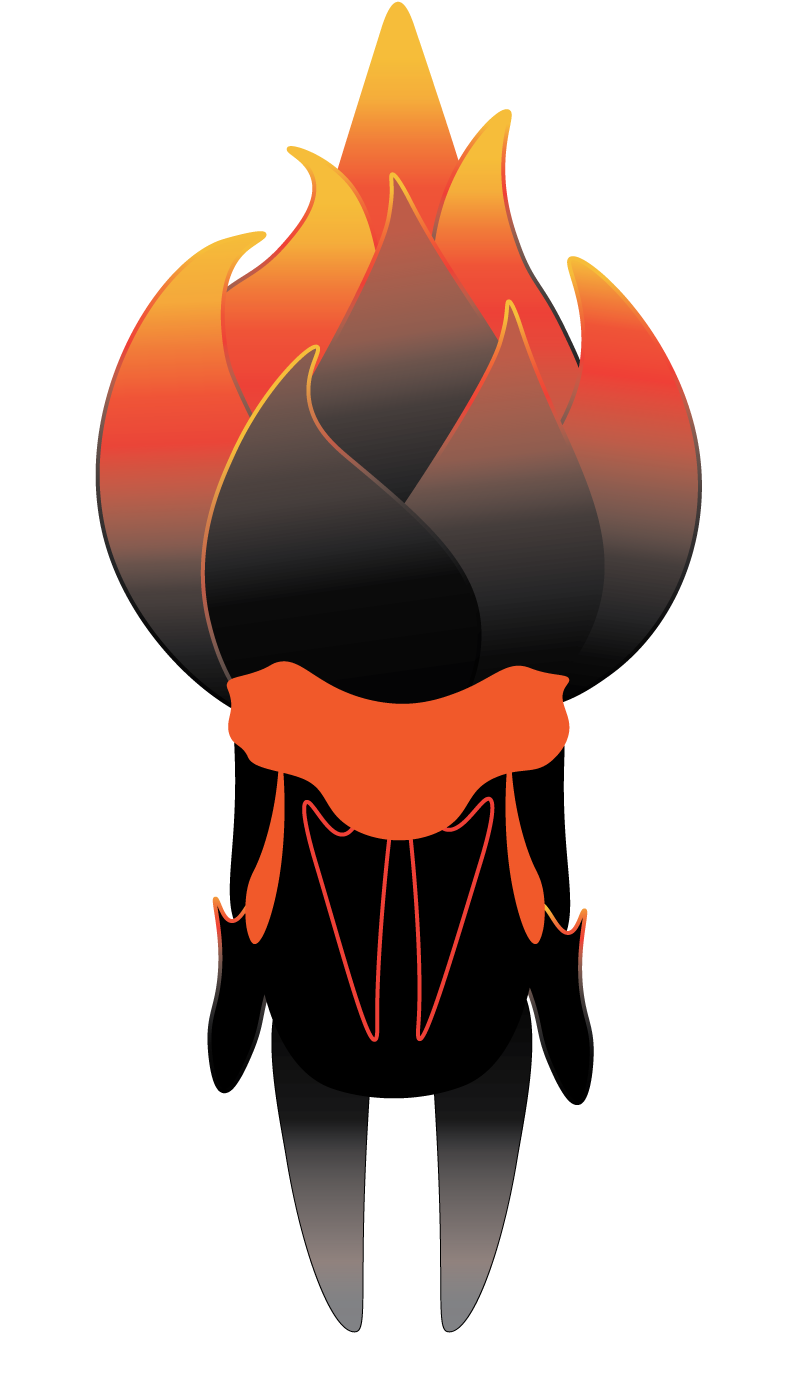
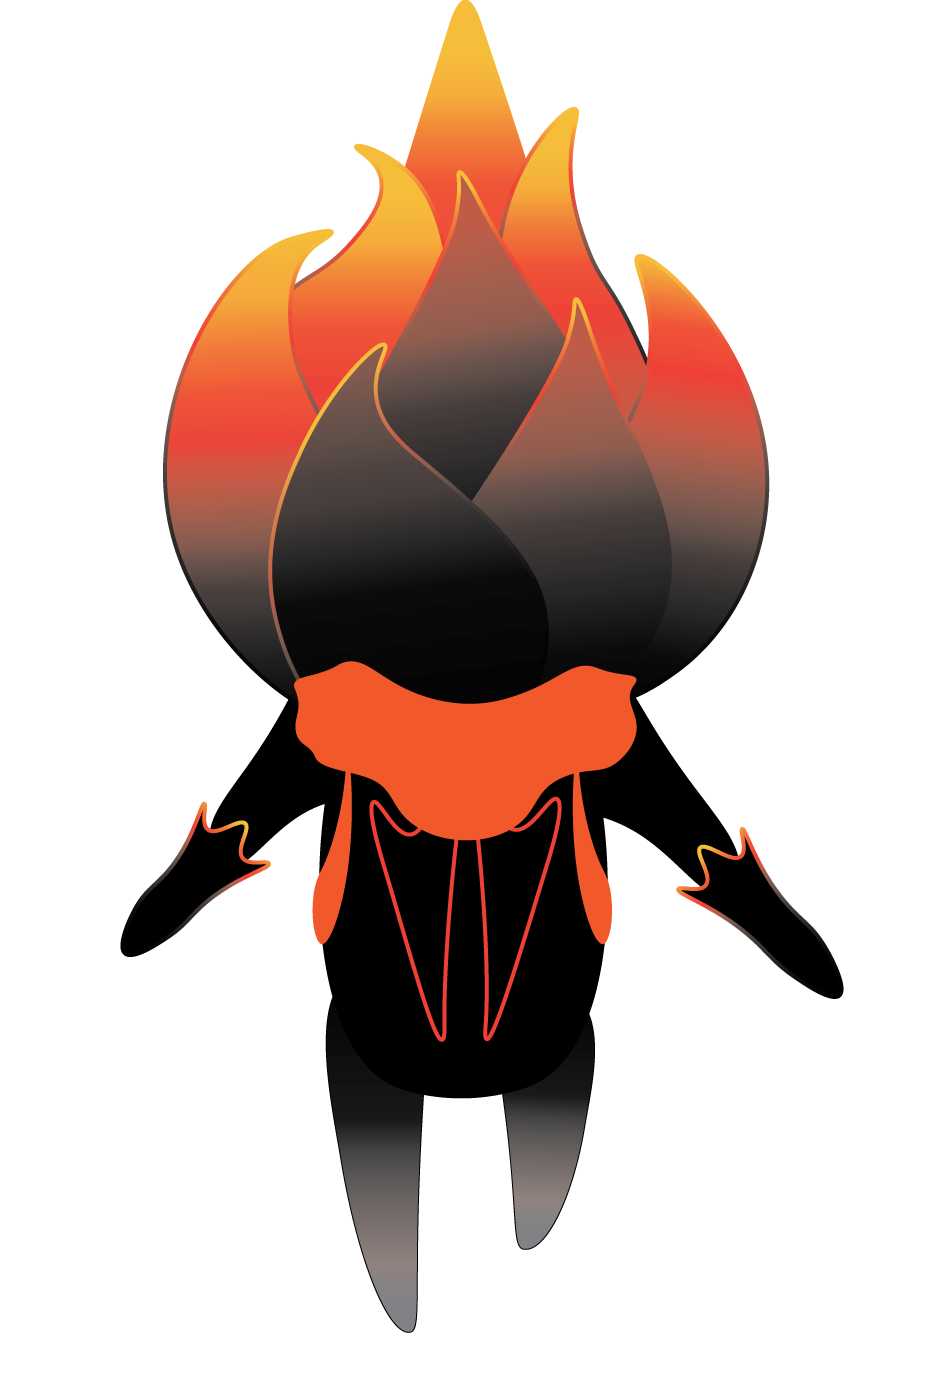
melee animations

diff --git a/character_objects.js b/character_objects.js
@@ -16,32 +16,29 @@ function main_character(x, y ) {
 	this.sprite.width = 60;
 	this.sprite.height = 80;
 	
-	this.up_walk = new Array;
-	this.up_walk.push(assets["mc_up_1"]);
-	this.up_walk.push(assets["mc_up_2"]);
-	this.up_walk.push(assets["mc_up_3"]);
+	this.up_walk = new Array; this.up_walk.push(assets["mc_up_1"]); this.up_walk.push(assets["mc_up_2"]); this.up_walk.push(assets["mc_up_3"]);
 	
-	this.down_walk = new Array;
-	this.down_walk.push(assets["mc_down_1"]);
-	this.down_walk.push(assets["mc_down_2"]);
-	this.down_walk.push(assets["mc_down_3"]);
+	this.down_walk = new Array; this.down_walk.push(assets["mc_down_1"]); this.down_walk.push(assets["mc_down_2"]); this.down_walk.push(assets["mc_down_3"]);
 	
-	this.right_walk = new Array;
-	this.right_walk.push(assets["mc_right_1"]);
-	this.right_walk.push(assets["mc_right_2"]);
-	this.right_walk.push(assets["mc_right_3"]);
+	this.right_walk = new Array; this.right_walk.push(assets["mc_right_1"]); this.right_walk.push(assets["mc_right_2"]); this.right_walk.push(assets["mc_right_3"]);
 	
-	this.left_walk = new Array;
-	this.left_walk.push(assets["mc_left_1"]);
-	this.left_walk.push(assets["mc_left_2"]);
-	this.left_walk.push(assets["mc_left_3"]);
+	this.left_walk = new Array; this.left_walk.push(assets["mc_left_1"]); this.left_walk.push(assets["mc_left_2"]); this.left_walk.push(assets["mc_left_3"]);
 	
+	this.up_melee = new Array; this.up_melee.push(assets["mc_melee_up_1"]); this.up_melee.push(assets["mc_melee_up_2"]); this.up_melee.push(assets["mc_melee_up_3"]); this.up_melee.push(assets["mc_melee_up_4"]);
+	
+	this.down_melee = new Array; this.down_melee.push(assets["mc_melee_down_1"]); this.down_melee.push(assets["mc_melee_down_2"]); this.down_melee.push(assets["mc_melee_down_3"]); this.down_melee.push(assets["mc_melee_down_4"]);
+
+	this.right_melee = new Array; this.right_melee.push(assets["mc_melee_right_1"]); this.right_melee.push(assets["mc_melee_right_2"]); this.right_melee.push(assets["mc_melee_right_3"]); this.right_melee.push(assets["mc_melee_right_4"]);
+
+	this.left_melee = new Array; this.left_melee.push(assets["mc_melee_left_1"]); this.left_melee.push(assets["mc_melee_left_2"]); this.left_melee.push(assets["mc_melee_left_3"]); this.left_melee.push(assets["mc_melee_left_4"]);
+
 	this.image_index = 0;
 	this.image_speed_max = 7;  
 	this.image_speed_counter = 0;
 	
 	this.active_animation = this.up_walk;
-	this.animated = false;
+	this.animated = false;               //whether the draw animated sprite script should be called
+	this.animating = false;              //whether a high priority animation is active (not walking)
 	
 	this.fp = 30;
 	this.nextFp = 10;
@@ -120,20 +117,20 @@ function main_character(x, y ) {
 	this.update = function(){
 		
 		//animation handlers
-		if(this.look_direc == 'west' && this.active_animation != this.left_walk){
+		if(this.look_direc == 'west' && this.animating == false){
 			this.active_animation = this.left_walk;
 		}
-		if(this.look_direc == 'south' && this.active_animation != this.down_walk){
+		if(this.look_direc == 'south' && this.animating == false){
 			this.active_animation = this.down_walk;
 		}
-		if(this.look_direc == 'north' && this.active_animation != this.up_walk){
+		if(this.look_direc == 'north' && this.animating == false){
 			this.active_animation = this.up_walk;
 		}
-		if(this.look_direc == 'east' && this.active_animation != this.right_walk){
+		if(this.look_direc == 'east' && this.animating == false){
 			this.active_animation = this.right_walk;
 		}
 		
-		if(this.canvasXSpeed == 0 && this.canvasYSpeed == 0){
+		if((this.canvasXSpeed == 0 && this.canvasYSpeed == 0) && this.animating == false){
 			this.animated = false;
 			this.image_index = 0;
 		}
@@ -347,6 +344,7 @@ function main_character(x, y ) {
     	//drawing the player sprite
 		if(this.animated == true){
 			draw_animated_sprite(this.active_animation, this, this.canvasX, this.canvasY, this.sprite.width, this.sprite.height);
+			console.log("drawing "+ this.active_animation);
 		}
 		else{
 			context.drawImage(this.active_animation[this.image_index], this.canvasX, this.canvasY, this.sprite.width, this.sprite.height);
@@ -432,13 +430,21 @@ function main_character(x, y ) {
 
 			var opt1 = this.look_direc;
 			var direction = 180;
+			this.animated = true;
+			this.animating = true;
 		    if (opt1 == 'west') {
 			    direction = 90;
+				this.active_animation = this.left_melee;
 		    } else if (opt1 == 'south'){
 			    direction = 0;
+				this.active_animation = this.down_melee;
 		    } else if (opt1 == 'east'){
 			    direction = 270;
-		    } 
+				this.active_animation = this.right_melee;
+		    } else if (opt1 == 'north'){
+				direction = 180;
+				this.active_animation = this.up_melee;
+			}
 			this.attack_hitbox = {
 				active:true,
 				shape:'arc',
@@ -525,6 +531,13 @@ function main_character(x, y ) {
 	this.die = function(){
 		//reset the game
 		reset_game();
+	}
+	
+	this.end_animation = function(target){
+		//called when the current animation ends
+		if(target == "melee"){
+			this.animating = false;
+		}
 	}
 	
     this.special = function(param){

diff --git a/main.js b/main.js
@@ -18,34 +18,41 @@ var renderer = new renderer(canvas, context);
 //preload of assets
 var assets = new Array();
 
+var mc_up_1 = new Image();  mc_up_1.src = 'images/walk_top/phoenix_away1.png';
+var mc_up_2 = new Image();  mc_up_2.src = 'images/walk_top/phoenix_away2.png';
+var mc_up_3 = new Image();  mc_up_3.src = 'images/walk_top/phoenix_away3.png';
 
-var mc_up_1 = new Image();
-mc_up_1.src = 'images/walk_top/phoenix_away1.png';
-var mc_up_2 = new Image();
-mc_up_2.src = 'images/walk_top/phoenix_away2.png';
-var mc_up_3 = new Image();
-mc_up_3.src = 'images/walk_top/phoenix_away3.png';
+var mc_down_1 = new Image();  mc_down_1.src = 'images/walk_down/phoenix_walkforward1.png';
+var mc_down_2 = new Image();  mc_down_2.src = 'images/walk_down/phoenix_walkforward2.png';
+var mc_down_3 = new Image();  mc_down_3.src = 'images/walk_down/phoenix_walkforward3.png';
 
-var mc_down_1 = new Image();
-mc_down_1.src = 'images/walk_down/phoenix_walkforward1.png';
-var mc_down_2 = new Image();
-mc_down_2.src = 'images/walk_down/phoenix_walkforward2.png';
-var mc_down_3 = new Image();
-mc_down_3.src = 'images/walk_down/phoenix_walkforward3.png';
+var mc_right_1 = new Image();  mc_right_1.src = 'images/walk_right/phoenix_walkright1.png';
+var mc_right_2 = new Image();  mc_right_2.src = 'images/walk_right/phoenix_walkright2.png';
+var mc_right_3 = new Image();  mc_right_3.src = 'images/walk_right/phoenix_walkright3.png';
 
-var mc_right_1 = new Image();
-mc_right_1.src = 'images/walk_right/phoenix_walkright1.png';
-var mc_right_2 = new Image();
-mc_right_2.src = 'images/walk_right/phoenix_walkright2.png';
-var mc_right_3 = new Image();
-mc_right_3.src = 'images/walk_right/phoenix_walkright3.png';
+var mc_left_1 = new Image();  mc_left_1.src = 'images/walk_left/phoenix_walkleft1.png';
+var mc_left_2 = new Image();  mc_left_2.src = 'images/walk_left/phoenix_walkleft2.png';
+var mc_left_3 = new Image();  mc_left_3.src = 'images/walk_left/phoenix_walkleft3.png';
 
-var mc_left_1 = new Image();
-mc_left_1.src = 'images/walk_left/phoenix_walkleft1.png';
-var mc_left_2 = new Image();
-mc_left_2.src = 'images/walk_left/phoenix_walkleft2.png';
-var mc_left_3 = new Image();
-mc_left_3.src = 'images/walk_left/phoenix_walkleft3.png';
+var mc_melee_left_1 = new Image();  mc_melee_left_1.src = 'images/melee_left/phoenix_leftmelee1.png';
+var mc_melee_left_2 = new Image();  mc_melee_left_2.src = 'images/melee_left/phoenix_leftmelee2.png';
+var mc_melee_left_3 = new Image();  mc_melee_left_3.src = 'images/melee_left/phoenix_leftmelee3.png';
+var mc_melee_left_4 = new Image();  mc_melee_left_4.src = 'images/melee_left/phoenix_leftmelee4.png';
+
+var mc_melee_right_1 = new Image();  mc_melee_right_1.src = 'images/melee_right/phoenix_rightmelee1.png';
+var mc_melee_right_2 = new Image();  mc_melee_right_2.src = 'images/melee_right/phoenix_rightmelee2.png';
+var mc_melee_right_3 = new Image();  mc_melee_right_3.src = 'images/melee_right/phoenix_rightmelee3.png';
+var mc_melee_right_4 = new Image();  mc_melee_right_4.src = 'images/melee_right/phoenix_rightmelee4.png';
+
+var mc_melee_up_1 = new Image();  mc_melee_up_1.src = 'images/melee_top/phoenix_backmelee1.png';
+var mc_melee_up_2 = new Image();  mc_melee_up_2.src = 'images/melee_top/phoenix_backmelee2.png';
+var mc_melee_up_3 = new Image();  mc_melee_up_3.src = 'images/melee_top/phoenix_backmelee3.png';
+var mc_melee_up_4 = new Image();  mc_melee_up_4.src = 'images/melee_top/phoenix_backmelee4.png';
+
+var mc_melee_down_1 = new Image();  mc_melee_down_1.src = 'images/melee_down/phoenix_melee1.png';
+var mc_melee_down_2 = new Image();  mc_melee_down_2.src = 'images/melee_down/phoenix_melee2.png';
+var mc_melee_down_3 = new Image();  mc_melee_down_3.src = 'images/melee_down/phoenix_melee3.png';
+var mc_melee_down_4 = new Image();  mc_melee_down_4.src = 'images/melee_down/phoenix_melee4.png';
 
 var sScorpion = new Image();
 sScorpion.src = 'images/enemies/seascorpion.png';
@@ -84,6 +91,26 @@ assets["mc_right_3"] = mc_right_3;
 assets["mc_left_1"] = mc_left_1;
 assets["mc_left_2"] = mc_left_2;
 assets["mc_left_3"] = mc_left_3;
+
+assets["mc_melee_up_1"] = mc_melee_up_1;
+assets["mc_melee_up_2"] = mc_melee_up_2;
+assets["mc_melee_up_3"] = mc_melee_up_3;
+assets["mc_melee_up_4"] = mc_melee_up_4;
+
+assets["mc_melee_down_1"] = mc_melee_down_1;
+assets["mc_melee_down_2"] = mc_melee_down_2;
+assets["mc_melee_down_3"] = mc_melee_down_3;
+assets["mc_melee_down_4"] = mc_melee_down_4;
+
+assets["mc_melee_right_1"] = mc_melee_right_1;
+assets["mc_melee_right_2"] = mc_melee_right_2;
+assets["mc_melee_right_3"] = mc_melee_right_3;
+assets["mc_melee_right_4"] = mc_melee_right_4;
+
+assets["mc_melee_left_1"] = mc_melee_left_1;
+assets["mc_melee_left_2"] = mc_melee_left_2;
+assets["mc_melee_left_3"] = mc_melee_left_3;
+assets["mc_melee_left_4"] = mc_melee_left_4;
 
 assets["sScorpion"] = sScorpion;
 

diff --git a/animations.js b/animations.js
@@ -19,6 +19,12 @@ function draw_animated_sprite(spr_arr, owner, cX, cY, spr_w, spr_h){
 			owner.image_index++;
 		}
 		else{
+			//animation ended
+			if(spr_arr == MC.left_melee || spr_arr == MC.right_melee || spr_arr == MC.up_melee || spr_arr == MC.down_melee){
+				console.log("melee animation");
+				owner.end_animation("melee");
+			}
+			
 			owner.image_index = 0;
 		}
 		
